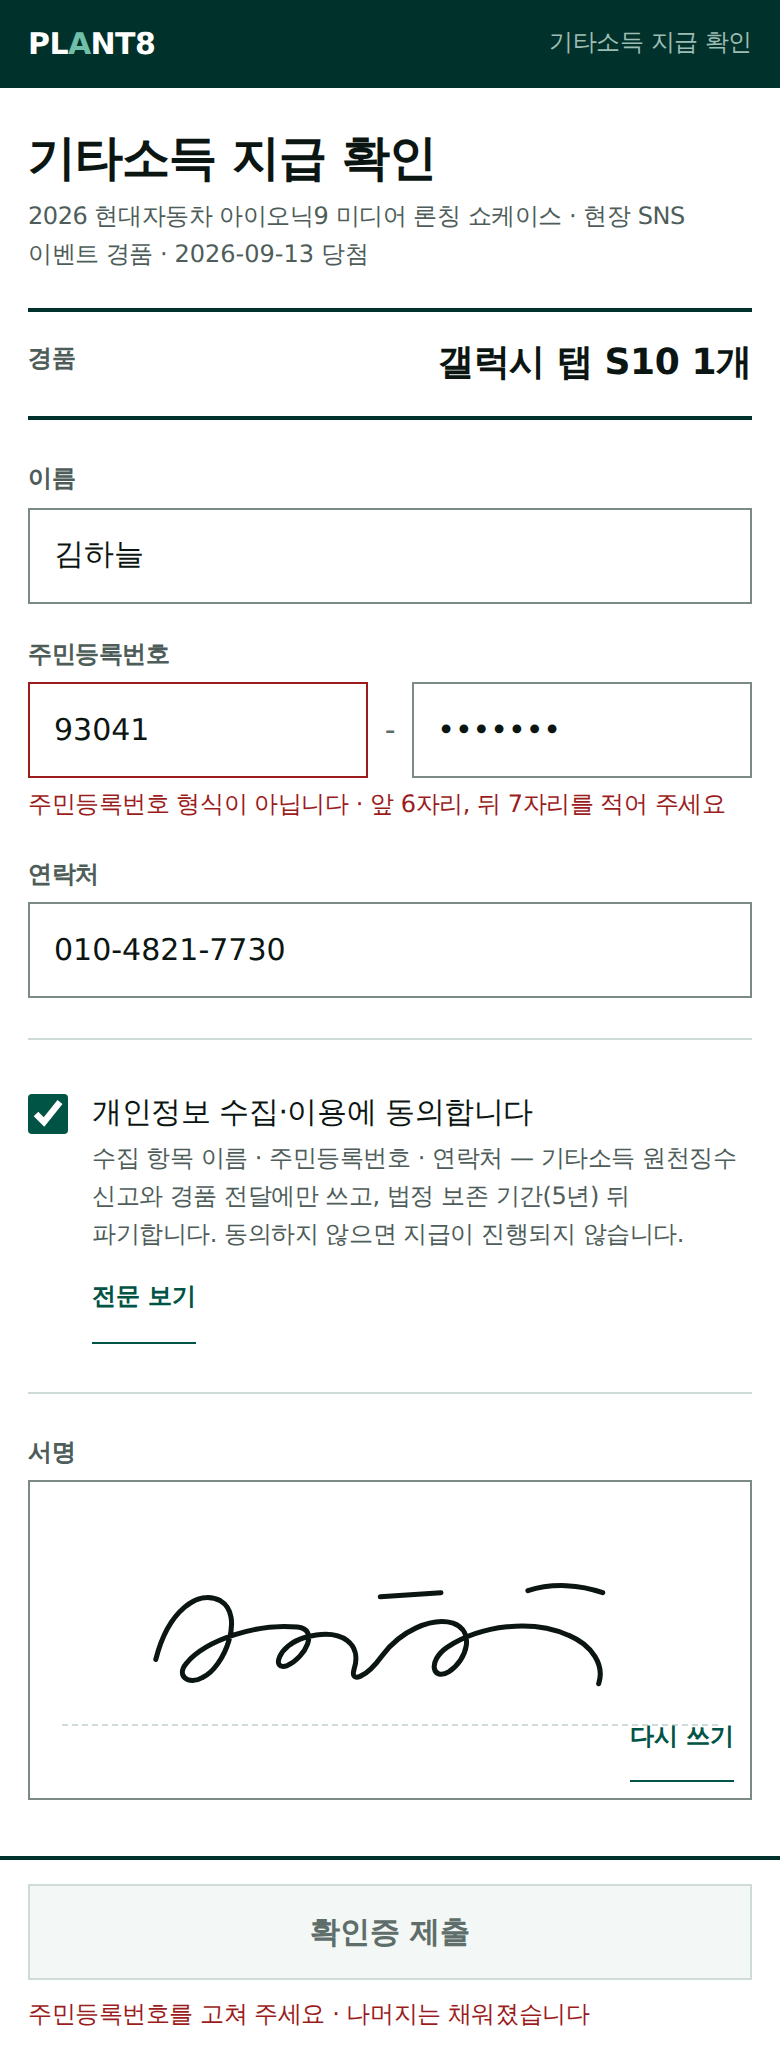
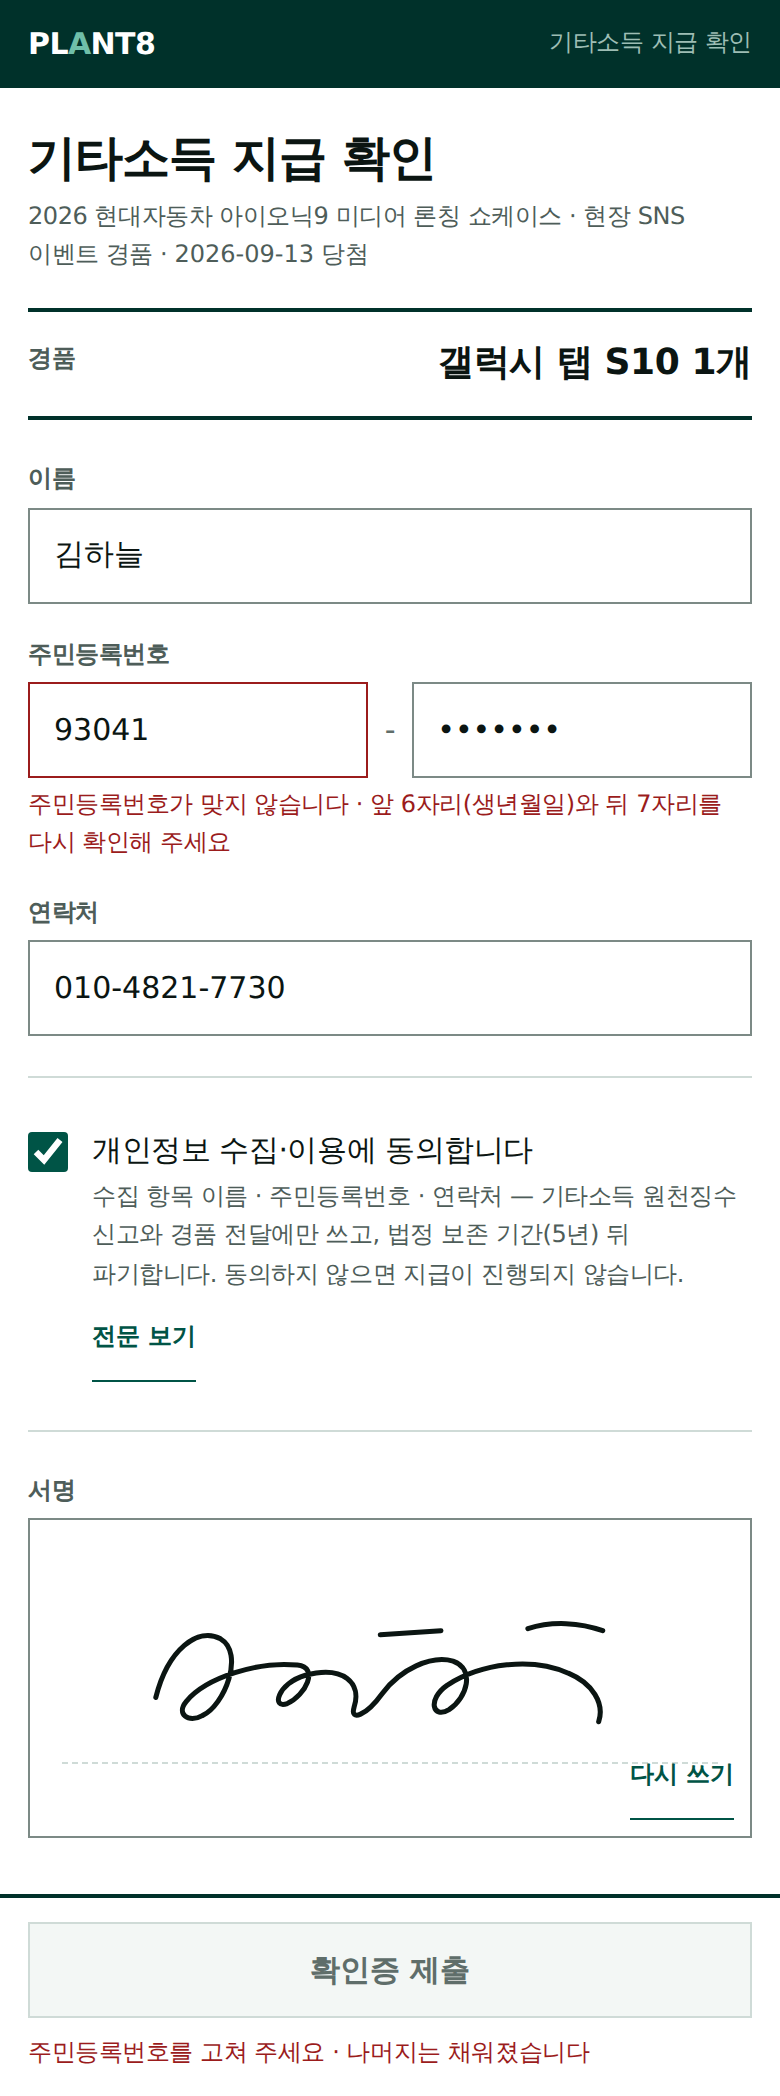
docs: 외부 수령자 화면 — 주민등록번호 검사 규칙(형식·날짜·성별 코드·검증번호), 오류 문구 통일
사용자 결정(2026-09-18): 확인 장치는 검사 규칙만(1). 신분증 첨부·본인인증 없음.

Claude-Session: https://claude.ai/code/session_01MwoSZSUG1tWADvG16RK3Ss

diff --git a/docs/design/system/external-cert.html b/docs/design/system/external-cert.html
@@ -9,7 +9,7 @@
 /* SYSTEM.md §6-5 외부 수령자 화면 실물(폰 전용, 로그인 없음, 평생 1회). 장면은 URL 해시로 고른다:
    #empty (기본) 빈 폼 · 제출 막힘 이유
    #sign         정보 입력 끝, 서명만 남음 · 「서명을 해 주세요」
-   #error        주민등록번호 형식 오류 · ~해 주세요체
+   #error        주민등록번호 오류 · ~해 주세요체. 검사(서버, 사용자 결정 2026-09-18 「1로 진행」): 형식(6+7) · 앞 6자리가 실제 날짜 · 뒷자리 첫 숫자가 생년 세기와 일치 · 검증번호(2020-10 이전 발급분만). 신분증 첨부·본인인증 없음
    #done         제출됨 · 링크 닫힘 (PDF 링크 없음 = v1)
    #expired      이미 제출된 링크로 재진입
    #post         택배 전달일 때 — 주소 칸이 보인다(담당자가 링크 만들 때 정함). 기본은 현장 수령: 주소 칸 없음
@@ -112,7 +112,7 @@ body[data-scene="error"] .sig svg{display:block}
     <div class="row"><label for="name">이름</label><input id="name" class="inp" placeholder="김하늘" value=""><span class="s-sign s-error" hidden></span></div>
     <div class="row"><label for="rrn1">주민등록번호</label>
       <div class="two"><input id="rrn1" class="inp num" inputmode="numeric" placeholder="930412" maxlength="6"><span class="dash">-</span><input id="rrn2" class="inp num" inputmode="numeric" type="password" placeholder="•••••••" maxlength="7"></div>
-      <div class="ferr s-error">주민등록번호 형식이 아닙니다 · 앞 6자리, 뒤 7자리를 적어 주세요</div>
+      <div class="ferr s-error">주민등록번호가 맞지 않습니다 · 앞 6자리(생년월일)와 뒤 7자리를 다시 확인해 주세요</div>
     </div>
     <div class="row row-addr"><label for="addr">주소 <span class="lbl-sub">택배로 보내 드립니다</span></label><input id="addr" class="inp" placeholder="도로명 주소"></div>
     <div class="row"><label for="tel">연락처</label><input id="tel" class="inp num" inputmode="tel" placeholder="010-0000-0000"></div>
